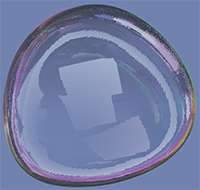
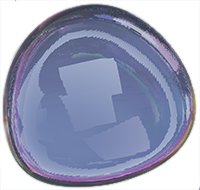
fix

Changed region(s): [[0.0, 0.0, 1.0, 1.0]]

diff --git a/src/styles/blocks/testimonial.scss b/src/styles/blocks/testimonial.scss
@@ -38,27 +38,64 @@
       width: 420px;
       height: 410px;
       background-image: url(../images/buble-1.png);
-      // transform: rotate(-10deg);
+      animation: move-buble 10s infinite ease-in-out;
     }
 
     &--second {
+      top: 730px;
+      left: 600px;
+      width: 120px;
+      height: 120px;
       background-image: url(../images/buble-2.png);
+      animation: move-buble 8s infinite ease-in-out;
     }
 
     &--third {
+      top: 1120px;
+      left: 120px;
+      width: 200px;
+      height: 200px;
       background-image: url(../images/buble-3.png);
+      animation: move-buble 9s infinite ease-in-out;
     }
 
     &--fourth {
+      top: 1300px;
+      left: 1160px;
+      width: 80px;
+      height: 80px;
       background-image: url(../images/buble-2.png);
+      animation: move-buble 7s infinite ease-in-out;
     }
 
     &--fifth {
+      top: 1500px;
+      left: 1000px;
+      width: 300px;
+      height: 600px;
       background-image: url(../images/buble-4.png);
+      animation: move-buble 14s infinite ease-in-out;
     }
 
     &--sixth {
+      top: 1780px;
+      left: 120px;
+      width: 220px;
+      height: 210px;
       background-image: url(../images/buble-1.png);
+      animation: move-buble 9s infinite ease-in-out;
+    }
+  }
+
+  @keyframes move-buble {
+    from {
+      transform: scale(100%) rotate(0deg);
+    }
+    50% {
+      transform: scale(90%) rotate(-10deg);
+    }
+    to {
+      transform: scale(100%) rotate(0deg);
     }
   }
 

diff --git a/src/styles/blocks/header.scss b/src/styles/blocks/header.scss
@@ -94,7 +94,7 @@
       transform: scale(100%);
     }
     50% {
-      transform: scale(90%);
+      transform: scale(93%);
     }
     to {
       transform: scale(100%);
@@ -137,7 +137,9 @@
     background-repeat: no-repeat;
     z-index: -1;
     // transition: transform 4000ms linear;
-    animation: move-m 8s infinite linear;
+    animation: move-m 10s infinite ease-in-out;
+    // animation: move-m 10s infinite cubic-bezier(0.7, 0, 0.7, 1);
+    // animation: move-m 10s infinite linear;
   }
 
   &__title {
